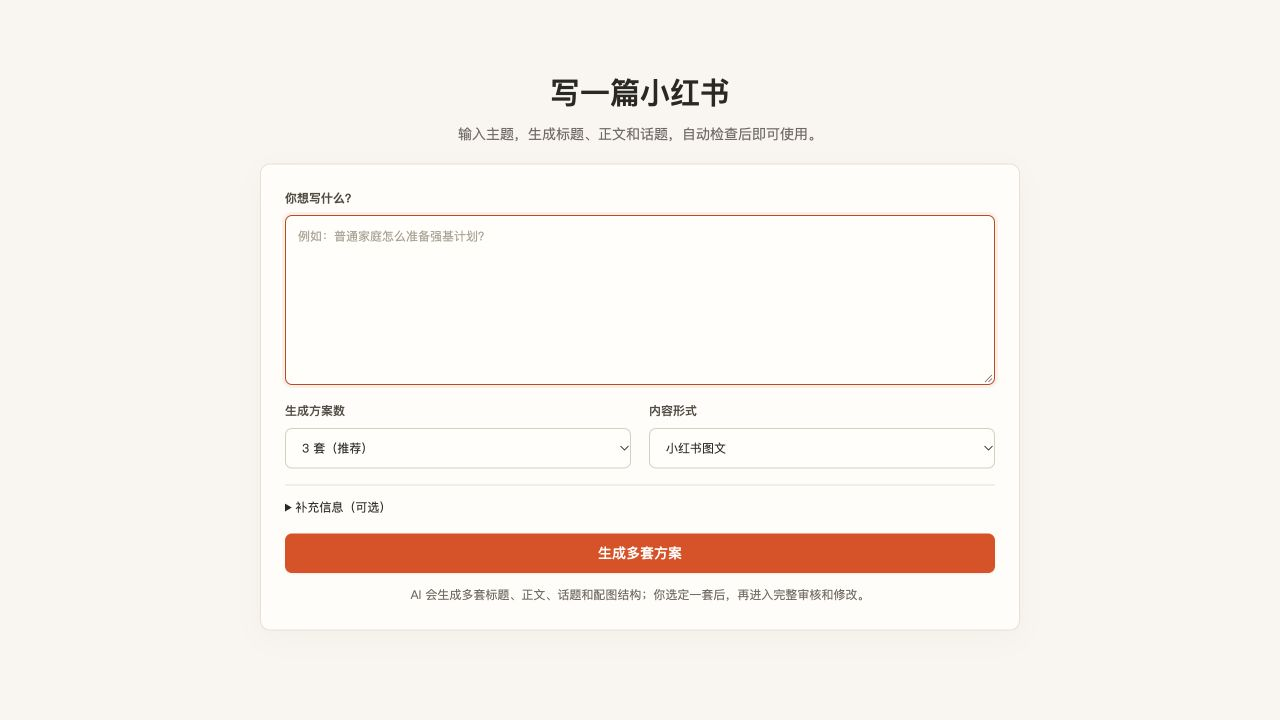
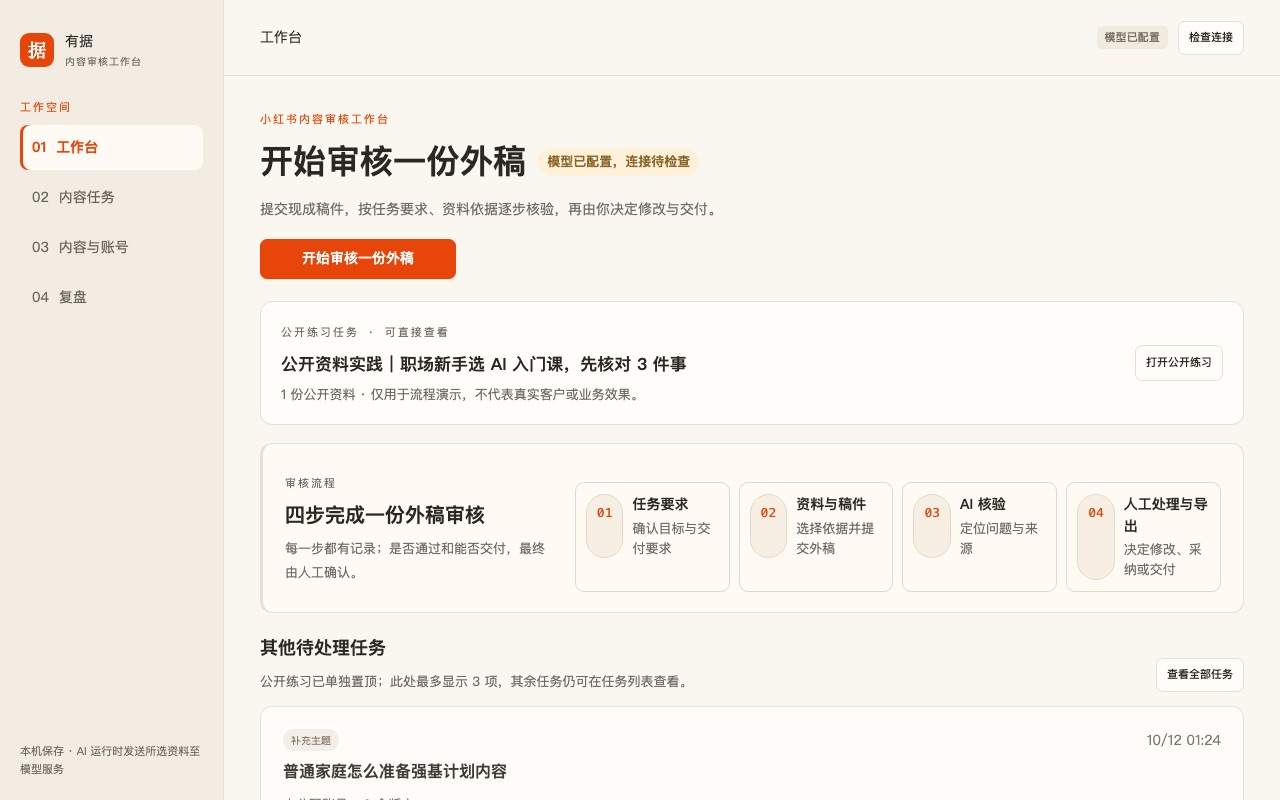
docs: TODO-009 有据案例页截图替换为审核看板版，文案对齐审核定位
- 替换 xhs-workbench-current.jpg 为当前审核工作台首页（四项导航+开始审核外稿）
- alt 文字与 figcaption 改为审核定位，日期更新为 2026.10.12
- 02 使用流程从写作版改为审核流程（任务要求→资料与稿件→AI 核验→人工处理与导出）
- 页脚从「把一篇内容做完整」改为「每一步核验，都有据可查」
- 产品类别保留「小红书 AI 内容工作台」但标注「内容审核定位」
- 状态声明从「验收通过」改为「完整流程仍待验收」（诚实声明）
- 测试 23/23 全绿

diff --git a/works/xhs-content-workbench/index.html b/works/xhs-content-workbench/index.html
@@ -4,8 +4,8 @@
   <meta charset="utf-8">
   <meta name="viewport" content="width=device-width, initial-scale=1">
   <meta name="theme-color" content="#1b1d1a">
-  <meta name="description" content="有据，小红书内容审核工作台。集中管理任务、资料和稿件，核验事实、检查风险表达、留痕版本，再交付使用。目前为本地独立实践。">
-  <title>有据｜小红书内容审核工作台 · Rango</title>
+  <meta name="description" content="有据，小红书 AI 内容工作台。输入主题、草稿或资料，经 AI 核验与人工审核后交付使用。目前为本地独立实践。">
+  <title>有据｜小红书 AI 内容工作台 · Rango</title>
   <link rel="icon" href="/favicon.svg" type="image/svg+xml">
   <link rel="stylesheet" href="./case.css">
   <script src="./case.js" defer></script>
@@ -23,13 +23,13 @@
       <section class="product-intro wrap" aria-labelledby="case-title">
         <p class="eyebrow">独立 AI 实践 <span>本地开发中</span></p>
         <h1 id="case-title">有据<span class="title-dot" aria-hidden="true">。</span></h1>
-        <p class="product-category">小红书内容审核工作台</p>
-        <p class="product-summary"><span class="summary-goal">目标流程</span>集中管理任务、资料和稿件，核验事实、检查风险表达；<br class="desktop-break">保留版本与审核意见，确认后再复制使用。</p>
+        <p class="product-category">小红书 AI 内容工作台 <span class="muted">· 内容审核定位</span></p>
+        <p class="product-summary"><span class="summary-goal">目标流程</span>输入主题、草稿或资料，集中管理任务、稿件与核验；<br class="desktop-break">检查风险表达、留痕版本，确认后再复制使用。</p>
         <div class="hero-actions">
           <a class="button primary" href="#tool-access" data-local-tool>工具与入口说明 <span aria-hidden="true">↓</span></a>
           <a class="text-link" href="#real-case">查看真实内容案例 <span aria-hidden="true">↓</span></a>
         </div>
-        <p class="intro-status">已有真实运行、失败重试、返稿与人工裁定记录；新版多方案→审核→修改→复查→导出完整流程已于 2026-10-11 用真实模型验收通过，未开放在线试用。</p>
+        <p class="intro-status">本地原型 · 完整流程仍待验收。已有真实运行、失败重试、返稿与人工裁定记录；未开放在线试用。</p>
       </section>
     </div>
 
@@ -39,23 +39,23 @@
         <div class="access-copy"><p data-access-note>工具目前在本机运行，需在已启动服务的电脑上打开。本页是静态案例，不会提交稿件或调用 AI。</p><a class="text-link" href="#walkthrough" data-local-tool>查看使用流程 <span aria-hidden="true">↓</span></a></div>
       </div>
       <figure class="current-screen">
-        <a href="/assets/xhs-workbench-current.jpg" target="_blank" rel="noopener" aria-label="查看当前工具输入界面原图，在新窗口打开">
-          <img src="/assets/xhs-workbench-current.jpg" alt="有据当前真实首页：输入内容、选择方案数量和内容形式，可补充写作要求。" width="1280" height="720" fetchpriority="high">
+        <a href="/assets/xhs-workbench-current.jpg" target="_blank" rel="noopener" aria-label="查看当前审核工作台首页原图，在新窗口打开">
+          <img src="/assets/xhs-workbench-current.jpg" alt="有据当前真实首页：内容审核工作台，含开始审核外稿入口、四步审核流程说明与待处理任务列表。" width="1280" height="720" fetchpriority="high">
         </a>
-        <figcaption>当前真实输入界面 · 2026.10.10 <span>截图不是生成结果，点击可看原图</span></figcaption>
+        <figcaption>当前真实工作台首页 · 2026.10.12 <span>截图不是审核结果，点击可看原图</span></figcaption>
       </figure>
     </section>
 
     <section class="workflow-section" id="walkthrough" aria-labelledby="workflow-title">
       <div class="wrap section">
-        <div class="section-heading"><p class="eyebrow">02 / 使用流程</p><h2 id="workflow-title">从想法到一套完整文案。</h2><p class="section-description">以下流程已于 2026-10-11 用真实模型完整跑通：多方案生成、选中审核、按意见修改、复查、导出交付物。</p></div>
+        <div class="section-heading"><p class="eyebrow">02 / 使用流程</p><h2 id="workflow-title">从一份外稿到可交付内容。</h2><p class="section-description">以下流程来自本地真实运行记录：导入稿件、AI 核验、人工修改与复查、导出交付物。是否通过和能否交付，最终由人工确认。</p></div>
         <ol class="writing-steps">
-          <li><span class="step-number">01</span><h3>输入内容</h3><p>写主题、粘贴草稿或参考资料。受众、语气和篇幅可补充，不必先填复杂任务表。</p></li>
-          <li><span class="step-number">02</span><h3>比较方案</h3><p>查看不同角度的标题、正文、话题和配图文案，选中一套进入审核。</p></li>
-          <li><span class="step-number">03</span><h3>审核修改</h3><p>定位风险表达与事实问题，按建议修改。缺少依据的事实补资料或删改，不自动编造。</p></li>
-          <li><span class="step-number">04</span><h3>复制使用</h3><p>确认修改后的版本，复制完整文案或单独复制标题、正文、话题，再人工发布。</p></li>
+          <li><span class="step-number">01</span><h3>任务要求</h3><p>确认内容目标、受众与交付要求，写清材料边界。资料不足时先记录问题，不直接生成看似完整的内容。</p></li>
+          <li><span class="step-number">02</span><h3>资料与稿件</h3><p>选择允许 AI 使用的资料，导入外部稿件。资料来源、核验状态与有效期全程可见。</p></li>
+          <li><span class="step-number">03</span><h3>AI 核验</h3><p>定位风险表达与事实问题，标出依据来源。缺少依据的事实补资料或删改，不自动编造。</p></li>
+          <li><span class="step-number">04</span><h3>人工处理与导出</h3><p>修改、采纳或退回，保留版本与审核意见；确认后复制完整文案或单独复制标题、正文、话题，再人工发布。</p></li>
         </ol>
-        <p class="workflow-output"><strong>目标产出</strong> 标题 · 正文 · 话题 · 封面文案 · 图文分页文案</p>
+        <p class="workflow-output"><strong>交付内容</strong> 标题 · 正文 · 话题 · 封面文案 · 图文分页文案 · 审核意见与版本记录</p>
         <p class="flow-footnote">AI 审核辅助发现问题，关键事实与最终发布仍由人确认；工具不自动发布，也不保证平台审核通过。</p>
       </div>
     </section>
@@ -145,7 +145,7 @@
         </div></details>
       </div>
     </section>
-    <footer class="case-footer"><div class="wrap footer-inner"><div><p class="eyebrow">有据 / 小红书 AI 内容工作台</p><p class="footer-line">少切换工具，<br>把一篇内容做完整。</p></div><div class="footer-links"><a href="#tool-access" data-local-tool>工具与入口说明 <span aria-hidden="true">↓</span></a><a href="/#ai-practice">返回作品集 <span aria-hidden="true">↗</span></a><a href="#case-title">回到顶部 <span aria-hidden="true">↑</span></a><p>独立实践 · 本地开发中</p></div></div></footer>
+    <footer class="case-footer"><div class="wrap footer-inner"><div><p class="eyebrow">有据 / 小红书内容审核工作台</p><p class="footer-line">每一步核验，<br>都有据可查。</p></div><div class="footer-links"><a href="#tool-access" data-local-tool>工具与入口说明 <span aria-hidden="true">↓</span></a><a href="/#ai-practice">返回作品集 <span aria-hidden="true">↗</span></a><a href="#case-title">回到顶部 <span aria-hidden="true">↑</span></a><p>独立实践 · 本地开发中</p></div></div></footer>
   </main>
 </body>
 </html>

diff --git a/TODO.md b/TODO.md
@@ -7,6 +7,12 @@
 ## 待办
 
 
+- [ ] TODO-009：有据配套物料对齐审核定位（README/案例页截图/alt 文案）
+  - 优先级：P1
+  - 目标：有据界面已恢复 10/5 审核看板版（四项导航、导入外稿核验），但配套物料仍停在 10/9-10 写作版：①有据仓库 README 开头还是"生成多套完整文案方案"写作叙事，测试记录是旧的 207 例（实际 214/214）；②案例页截图 `xhs-workbench-current.jpg` 是写作版首页（2026.10.10），alt 文字和页脚也是写作口吻。面试前必须一致，否则截图与实物对不上。
+  - 验收标准：有据 README 改为审核定位叙事、测试数字更新为 214/214；案例页截图替换为当前审核看板首页并更新日期与 alt；页脚写作口吻改为审核口吻；有据全量测试保持全绿；两仓库分别提交。
+  - 依赖：无
+
 - [ ] TODO-001：核实 MarioCode 与 AI API 的对外事实
   - 优先级：P0
   - 目标：展示前先确认事实一致。2026-10-11 抓取发现：下载页（`39.109.58.6:3458`）显示 macOS v0.2.8、Windows v0.2.10，而 GitHub Release 为 v0.2.44，二者不一致；GitHub Release 页面当次抓取加载失败，未能验证；`ai.marioya.cc.cd` 首页是模型监控页，当时显示 1 正常 / 1 异常模型。
